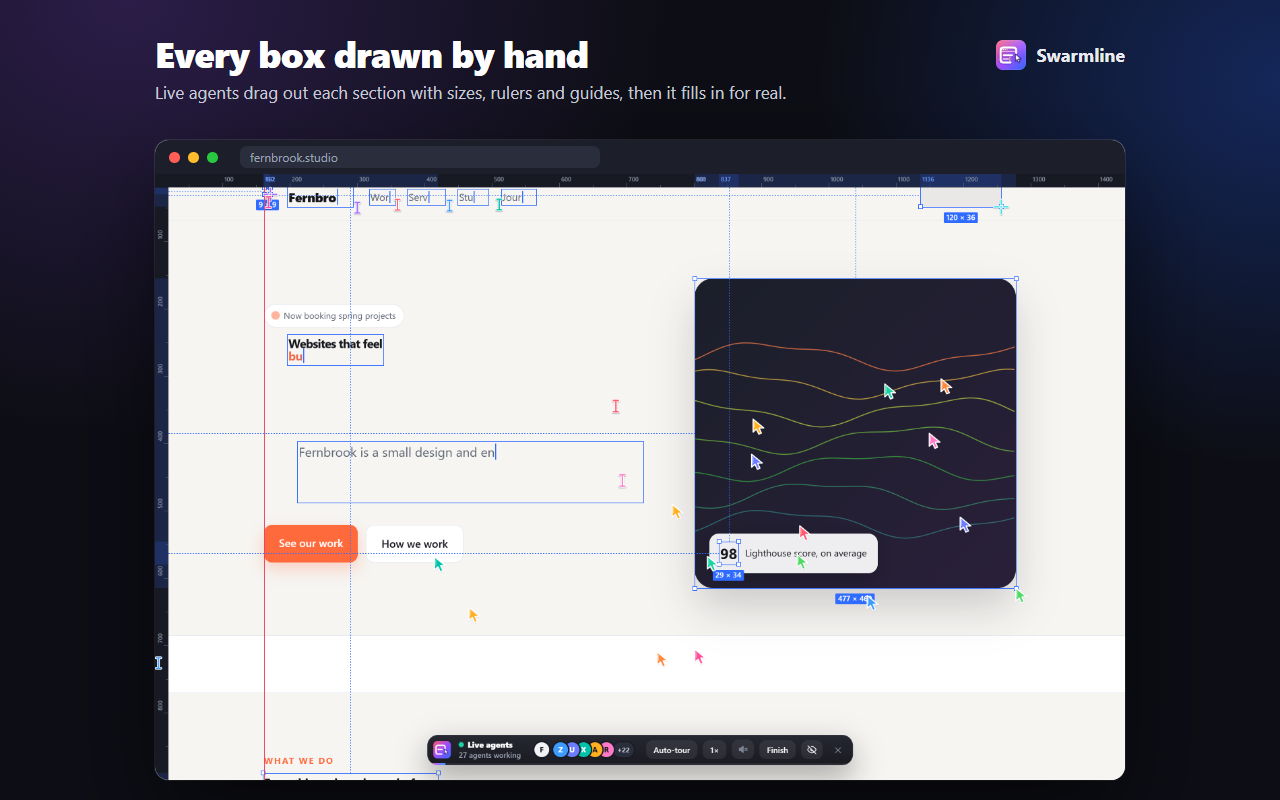
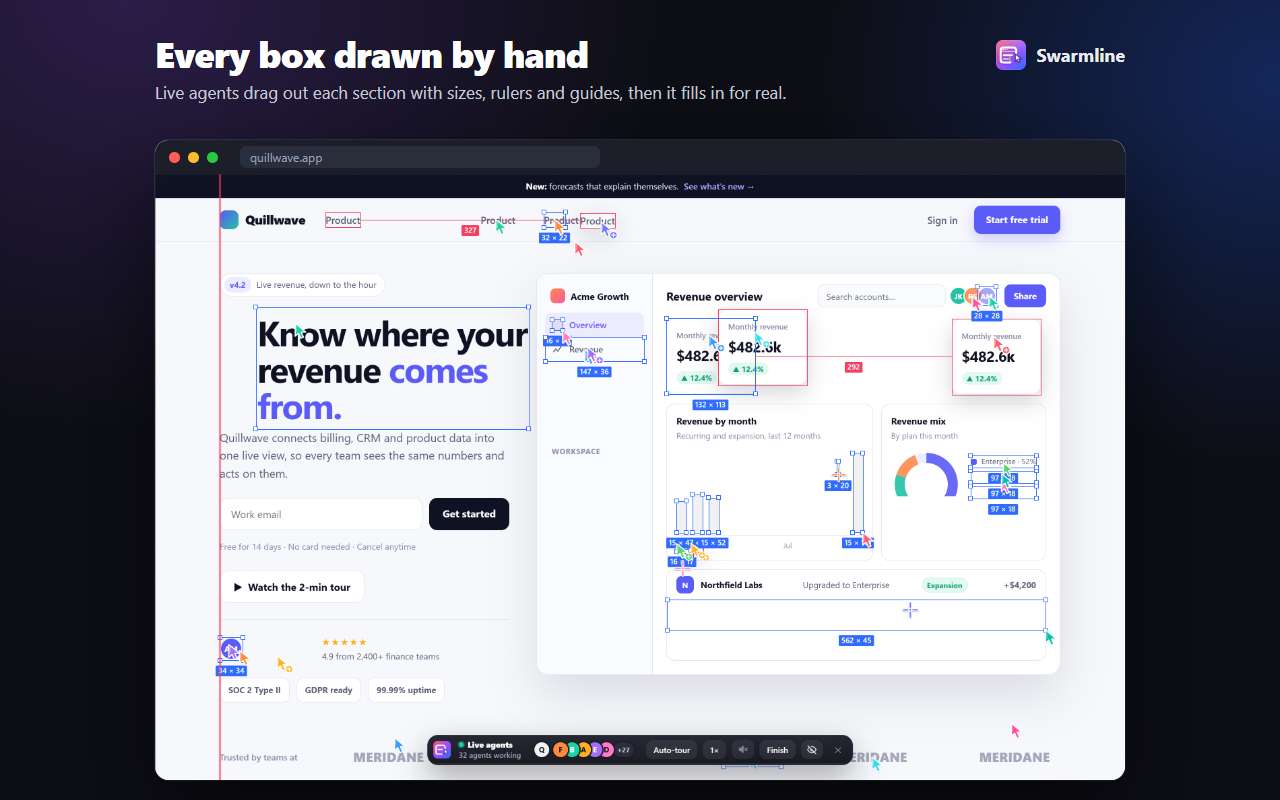
Store screenshots: a professional SaaS header with a live dashboard
New demo/showcase.html (Quillwave, a fictional revenue-analytics product): a
dense header with nav, hero, sign-up, ratings and badges beside a product
dashboard (sidebar, KPI cards, bar chart, donut, activity rows, logo strip),
so every shot shows many pieces being built. Duplicates and edits use the KPI
cards; the last shot is a real finished build (3x, with the tour), not Finish.

diff --git a/demo/showcase.html b/demo/showcase.html
@@ -1,0 +1,201 @@
+<!doctype html>
+<html lang="en">
+<head>
+<meta charset="utf-8">
+<meta name="viewport" content="width=device-width, initial-scale=1">
+<title>Quillwave · Revenue analytics</title>
+<!-- A self-contained page for Swarmline's store screenshots: a dense SaaS header with a
+     product dashboard. Quillwave and every company named here are fictional. No external requests. -->
+<style>
+  :root { --ink:#0f1222; --muted:#5b6178; --soft:#8a90a6; --line:#e6e8f0; --bg:#f7f8fc; --brand:#5b5bf7; --brand2:#22c3a6; --warm:#ff8a4c; --pink:#f45b9a; }
+  * { box-sizing: border-box; }
+  body { margin: 0; background: var(--bg); color: var(--ink); font: 15px/1.55 ui-sans-serif, system-ui, -apple-system, "Segoe UI", Roboto, sans-serif; }
+  a { color: inherit; text-decoration: none; }
+  .wrap { max-width: 1320px; margin: 0 auto; padding: 0 36px; }
+
+  /* top bar */
+  .promo { background: var(--ink); color: #d9dcf0; font-size: 13px; text-align: center; padding: 8px 0; }
+  .promo b { color: #fff; }
+  .promo a { color: #a9a9ff; margin-left: 8px; font-weight: 600; }
+  header { background: rgba(247,248,252,.9); border-bottom: 1px solid var(--line); }
+  header .wrap { display: flex; align-items: center; gap: 30px; height: 64px; }
+  .logo { display: flex; align-items: center; gap: 10px; font-weight: 800; font-size: 19px; letter-spacing: -.02em; }
+  .logo i { width: 28px; height: 28px; border-radius: 9px; background: linear-gradient(135deg, var(--brand), var(--brand2)); display: block; }
+  nav { display: flex; gap: 24px; color: var(--muted); font-size: 14.5px; font-weight: 500; }
+  .right { margin-left: auto; display: flex; align-items: center; gap: 12px; }
+  .signin { font-size: 14.5px; font-weight: 600; color: var(--muted); padding: 8px 12px; }
+  .cta { padding: 10px 18px; border-radius: 10px; background: var(--brand); color: #fff; font-weight: 650; font-size: 14px; box-shadow: 0 8px 20px rgba(91,91,247,.28); }
+
+  /* hero */
+  .hero { display: grid; grid-template-columns: 430px 1fr; gap: 40px; padding: 46px 0 40px; align-items: start; }
+  .pill { display: inline-flex; align-items: center; gap: 8px; padding: 5px 12px 5px 6px; border-radius: 999px; background: #fff; border: 1px solid var(--line); font-size: 13px; color: var(--muted); }
+  .pill span { padding: 2px 8px; border-radius: 999px; background: #ecebff; color: var(--brand); font-weight: 700; font-size: 12px; }
+  h1 { font-size: 52px; line-height: 1.04; letter-spacing: -.035em; margin: 18px 0 16px; }
+  h1 em { font-style: normal; color: var(--brand); }
+  .lede { font-size: 17px; color: var(--muted); margin: 0 0 24px; }
+  .signup { display: flex; gap: 10px; margin-bottom: 14px; }
+  .signup input { flex: 1; height: 48px; border-radius: 12px; border: 1px solid var(--line); background: #fff; padding: 0 16px; font: inherit; color: var(--ink); }
+  .btn { display: inline-flex; align-items: center; height: 48px; padding: 0 20px; border-radius: 12px; font-weight: 650; }
+  .btn.pri { background: var(--ink); color: #fff; }
+  .btn.sec { background: #fff; border: 1px solid var(--line); }
+  .fine { font-size: 13px; color: var(--soft); margin: 0 0 26px; }
+  .trust { display: flex; align-items: center; gap: 14px; padding-top: 22px; border-top: 1px solid var(--line); }
+  .faces { display: flex; }
+  .faces b { width: 34px; height: 34px; border-radius: 50%; border: 2px solid var(--bg); margin-left: -8px; display: grid; place-items: center; color: #fff; font-size: 12px; }
+  .faces b:first-child { margin-left: 0; }
+  .stars { color: #ffb020; letter-spacing: 2px; font-size: 14px; }
+  .trust small { display: block; color: var(--muted); font-size: 13px; }
+  .badges { display: flex; gap: 10px; margin-top: 22px; }
+  .badge { padding: 8px 12px; border-radius: 10px; background: #fff; border: 1px solid var(--line); font-size: 12.5px; font-weight: 650; color: var(--muted); }
+
+  /* product dashboard */
+  .app { background: #fff; border: 1px solid var(--line); border-radius: 18px; box-shadow: 0 30px 70px rgba(15,18,34,.12); display: grid; grid-template-columns: 172px 1fr; overflow: hidden; }
+  .side { background: #fafbff; border-right: 1px solid var(--line); padding: 16px 12px; }
+  .ws { display: flex; align-items: center; gap: 8px; padding: 6px 8px 14px; font-weight: 700; font-size: 13.5px; }
+  .ws i { width: 22px; height: 22px; border-radius: 7px; background: linear-gradient(135deg, var(--warm), var(--pink)); display: block; }
+  .item { display: flex; align-items: center; gap: 10px; padding: 8px 10px; border-radius: 9px; color: var(--muted); font-size: 13px; font-weight: 550; }
+  .item svg { width: 16px; height: 16px; flex: none; }
+  .item.on { background: #ecebff; color: var(--brand); }
+  .side h6 { margin: 16px 10px 6px; font-size: 11px; letter-spacing: .06em; text-transform: uppercase; color: var(--soft); }
+  .main { padding: 16px 20px 20px; }
+  .top { display: flex; align-items: center; gap: 12px; margin-bottom: 16px; }
+  .top h3 { margin: 0; font-size: 17px; letter-spacing: -.01em; white-space: nowrap; }
+  .search { margin-left: auto; width: 190px; height: 34px; border-radius: 9px; border: 1px solid var(--line); background: #fafbff; padding: 0 12px; font: inherit; font-size: 13px; }
+  .team { display: flex; }
+  .team b { width: 28px; height: 28px; border-radius: 50%; border: 2px solid #fff; margin-left: -7px; display: grid; place-items: center; color: #fff; font-size: 11px; }
+  .share { height: 34px; padding: 0 14px; border-radius: 9px; background: var(--brand); color: #fff; font-weight: 650; font-size: 13px; display: inline-flex; align-items: center; }
+  .kpis { display: grid; grid-template-columns: repeat(4, 1fr); gap: 12px; margin-bottom: 14px; }
+  .kpi { border: 1px solid var(--line); border-radius: 13px; padding: 12px 14px; background: #fff; }
+  .kpi small { color: var(--soft); font-size: 11.5px; font-weight: 600; white-space: nowrap; }
+  .kpi strong { display: block; font-size: 22px; letter-spacing: -.02em; margin: 2px 0 4px; }
+  .delta { font-size: 11.5px; font-weight: 700; padding: 2px 7px; border-radius: 999px; }
+  .up { color: #0f9f7a; background: #e2f8f1; }
+  .down { color: #d6456f; background: #fde8ef; }
+  .panels { display: grid; grid-template-columns: 1.55fr 1fr; gap: 12px; }
+  .panel { border: 1px solid var(--line); border-radius: 13px; padding: 14px; background: #fff; }
+  .panel h4 { margin: 0 0 2px; font-size: 13.5px; }
+  .panel p { margin: 0 0 12px; color: var(--soft); font-size: 12px; }
+  .bars { display: flex; align-items: flex-end; gap: 9px; height: 128px; padding-bottom: 4px; border-bottom: 1px solid var(--line); }
+  .bars span { flex: 1; border-radius: 6px 6px 2px 2px; background: #dcdcff; }
+  .bars span.hi { background: var(--brand); }
+  .axis { display: flex; justify-content: space-between; color: var(--soft); font-size: 11px; margin-top: 6px; }
+  .donut { display: flex; align-items: center; gap: 14px; }
+  .donut svg { width: 104px; height: 104px; flex: none; }
+  .legend div { display: flex; align-items: center; gap: 7px; font-size: 11.5px; white-space: nowrap; color: var(--muted); margin: 5px 0; }
+  .legend i { width: 9px; height: 9px; border-radius: 3px; display: block; }
+  .rows { margin-top: 12px; border: 1px solid var(--line); border-radius: 13px; overflow: hidden; }
+  .row { display: grid; grid-template-columns: 26px 1.15fr 1.35fr 84px 76px; align-items: center; gap: 10px; padding: 9px 14px; border-top: 1px solid var(--line); font-size: 12.5px; background: #fff; }
+  .row:first-child { border-top: 0; }
+  .row b { width: 26px; height: 26px; border-radius: 8px; display: grid; place-items: center; color: #fff; font-size: 11px; }
+  .row .tag { font-style: normal; justify-self: start; font-size: 11px; font-weight: 700; padding: 3px 8px; border-radius: 999px; }
+  .row .amt { text-align: right; font-weight: 700; }
+  .row span { color: var(--muted); white-space: nowrap; }
+
+  /* logo strip */
+  .logos { display: flex; justify-content: space-between; align-items: center; padding: 26px 0 30px; color: #a3a8bb; font-weight: 800; font-size: 19px; letter-spacing: .01em; }
+  .logos small { color: var(--soft); font-weight: 600; font-size: 13px; letter-spacing: 0; }
+
+  /* below the fold */
+  section { padding: 70px 0; }
+  .kicker { color: var(--brand); font-weight: 700; font-size: 13px; letter-spacing: .08em; text-transform: uppercase; }
+  h2 { font-size: 38px; letter-spacing: -.03em; margin: 10px 0 34px; max-width: 680px; line-height: 1.1; }
+  .grid3 { display: grid; grid-template-columns: repeat(3, 1fr); gap: 20px; }
+  .card { background: #fff; border: 1px solid var(--line); border-radius: 18px; padding: 24px; }
+  .card .ic { width: 42px; height: 42px; border-radius: 12px; display: grid; place-items: center; margin-bottom: 16px; }
+  .card h3 { margin: 0 0 8px; font-size: 18px; }
+  .card p { margin: 0; color: var(--muted); }
+  footer { border-top: 1px solid var(--line); padding: 34px 0 60px; color: var(--soft); font-size: 13px; }
+</style>
+</head>
+<body>
+<div class="promo"><b>New:</b> forecasts that explain themselves.<a href="#">See what's new →</a></div>
+<header>
+  <div class="wrap">
+    <a class="logo" href="#"><i></i>Quillwave</a>
+    <nav><a href="#">Product</a><a href="#">Solutions</a><a href="#">Pricing</a><a href="#">Customers</a><a href="#">Docs</a><a href="#">Changelog</a></nav>
+    <div class="right"><a class="signin" href="#">Sign in</a><a class="cta" href="#">Start free trial</a></div>
+  </div>
+</header>
+
+<main class="wrap">
+  <div class="hero">
+    <div>
+      <div class="pill"><span>v4.2</span> Live revenue, down to the hour</div>
+      <h1>Know where your revenue <em>comes from.</em></h1>
+      <p class="lede">Quillwave connects billing, CRM and product data into one live view, so every team sees the same numbers and acts on them.</p>
+      <div class="signup"><input type="email" placeholder="Work email" aria-label="Work email"><a class="btn pri" href="#">Get started</a></div>
+      <p class="fine">Free for 14 days · No card needed · Cancel anytime</p>
+      <div class="btns"><a class="btn sec" href="#">▶&nbsp; Watch the 2-min tour</a></div>
+      <div class="trust" style="margin-top:24px">
+        <div class="faces"><b style="background:#5b5bf7">AM</b><b style="background:#22c3a6">JK</b><b style="background:#ff8a4c">RS</b><b style="background:#f45b9a">TL</b><b style="background:#0f1222">+9</b></div>
+        <div><div class="stars">★★★★★</div><small>4.9 from 2,400+ finance teams</small></div>
+      </div>
+      <div class="badges"><div class="badge">SOC 2 Type II</div><div class="badge">GDPR ready</div><div class="badge">99.99% uptime</div></div>
+    </div>
+
+    <div class="app">
+      <aside class="side">
+        <div class="ws"><i></i>Acme Growth</div>
+        <a class="item on" href="#"><svg viewBox="0 0 16 16" fill="none" stroke="currentColor" stroke-width="1.6"><rect x="2" y="2" width="5" height="5" rx="1.5"/><rect x="9" y="2" width="5" height="5" rx="1.5"/><rect x="2" y="9" width="5" height="5" rx="1.5"/><rect x="9" y="9" width="5" height="5" rx="1.5"/></svg>Overview</a>
+        <a class="item" href="#"><svg viewBox="0 0 16 16" fill="none" stroke="currentColor" stroke-width="1.6"><path d="M2 13l4-5 3 3 5-7"/></svg>Revenue</a>
+        <a class="item" href="#"><svg viewBox="0 0 16 16" fill="none" stroke="currentColor" stroke-width="1.6"><circle cx="8" cy="5.5" r="2.8"/><path d="M2.5 14c1-3 3-4 5.5-4s4.5 1 5.5 4"/></svg>Customers</a>
+        <a class="item" href="#"><svg viewBox="0 0 16 16" fill="none" stroke="currentColor" stroke-width="1.6"><path d="M3 2.5h10v11H3z"/><path d="M5.5 6h5M5.5 9h5"/></svg>Invoices</a>
+        <a class="item" href="#"><svg viewBox="0 0 16 16" fill="none" stroke="currentColor" stroke-width="1.6"><circle cx="8" cy="8" r="5.5"/><path d="M8 4.5V8l2.5 1.5"/></svg>Forecasts</a>
+        <h6>Workspace</h6>
+        <a class="item" href="#"><svg viewBox="0 0 16 16" fill="none" stroke="currentColor" stroke-width="1.6"><path d="M2.5 4h11M2.5 8h11M2.5 12h7"/></svg>Reports</a>
+        <a class="item" href="#"><svg viewBox="0 0 16 16" fill="none" stroke="currentColor" stroke-width="1.6"><path d="M8 2v3M8 11v3M2 8h3M11 8h3"/><circle cx="8" cy="8" r="2.5"/></svg>Integrations</a>
+        <a class="item" href="#"><svg viewBox="0 0 16 16" fill="none" stroke="currentColor" stroke-width="1.6"><circle cx="8" cy="8" r="2"/><path d="M8 1.5v2M8 12.5v2M1.5 8h2M12.5 8h2M3.4 3.4l1.4 1.4M11.2 11.2l1.4 1.4M3.4 12.6l1.4-1.4M11.2 4.8l1.4-1.4"/></svg>Settings</a>
+      </aside>
+      <div class="main">
+        <div class="top">
+          <h3>Revenue overview</h3>
+          <input class="search" type="search" placeholder="Search accounts…" aria-label="Search">
+          <div class="team"><b style="background:#22c3a6">JK</b><b style="background:#ff8a4c">RS</b><b style="background:#5b5bf7">AM</b></div>
+          <a class="share" href="#">Share</a>
+        </div>
+        <div class="kpis">
+          <div class="kpi"><small>Monthly revenue</small><strong>$482.6k</strong><span class="delta up">▲ 12.4%</span></div>
+          <div class="kpi"><small>Active customers</small><strong>8,214</strong><span class="delta up">▲ 6.1%</span></div>
+          <div class="kpi"><small>Net retention</small><strong>118%</strong><span class="delta up">▲ 2.3%</span></div>
+          <div class="kpi"><small>Churn rate</small><strong>1.9%</strong><span class="delta down">▼ 0.4%</span></div>
+        </div>
+        <div class="panels">
+          <div class="panel">
+            <h4>Revenue by month</h4><p>Recurring and expansion, last 12 months</p>
+            <div class="bars"><span style="height:38%"></span><span style="height:46%"></span><span style="height:42%"></span><span style="height:55%"></span><span style="height:51%"></span><span style="height:63%"></span><span style="height:60%"></span><span style="height:71%"></span><span style="height:68%"></span><span style="height:80%"></span><span style="height:86%"></span><span class="hi" style="height:96%"></span></div>
+            <div class="axis"><span>Jan</span><span>Mar</span><span>May</span><span>Jul</span><span>Sep</span><span>Dec</span></div>
+          </div>
+          <div class="panel">
+            <h4>Revenue mix</h4><p>By plan this month</p>
+            <div class="donut">
+              <svg viewBox="0 0 42 42"><circle cx="21" cy="21" r="15.9" fill="none" stroke="#ecebff" stroke-width="6"/><circle cx="21" cy="21" r="15.9" fill="none" stroke="#5b5bf7" stroke-width="6" stroke-dasharray="52 48" stroke-dashoffset="25"/><circle cx="21" cy="21" r="15.9" fill="none" stroke="#22c3a6" stroke-width="6" stroke-dasharray="28 72" stroke-dashoffset="73"/><circle cx="21" cy="21" r="15.9" fill="none" stroke="#ff8a4c" stroke-width="6" stroke-dasharray="14 86" stroke-dashoffset="45"/></svg>
+              <div class="legend"><div><i style="background:#5b5bf7"></i>Enterprise · 52%</div><div><i style="background:#22c3a6"></i>Growth · 28%</div><div><i style="background:#ff8a4c"></i>Starter · 14%</div><div><i style="background:#ecebff"></i>Other · 6%</div></div>
+            </div>
+          </div>
+        </div>
+        <div class="rows">
+          <div class="row"><b style="background:#5b5bf7">N</b><strong>Northfield Labs</strong><span>Upgraded to Enterprise</span><em class="tag up">Expansion</em><span class="amt">+$4,200</span></div>
+          <div class="row"><b style="background:#22c3a6">O</b><strong>Orchard &amp; Pine</strong><span>Annual plan renewed</span><em class="tag up">Renewal</em><span class="amt">+$18,900</span></div>
+          <div class="row"><b style="background:#ff8a4c">B</b><strong>Bluegate Freight</strong><span>Added 40 seats</span><em class="tag up">Expansion</em><span class="amt">+$2,640</span></div>
+        </div>
+      </div>
+    </div>
+  </div>
+
+  <div class="logos"><small>Trusted by teams at</small><span>MERIDANE</span><span>Quillbrook</span><span>HALVARA</span><span>tesselate</span><span>BRIGHTVANE</span><span>Kestrelwood</span></div>
+</main>
+
+<section>
+  <div class="wrap">
+    <div class="kicker">Why Quillwave</div>
+    <h2>One source of truth for every revenue number.</h2>
+    <div class="grid3">
+      <div class="card"><div class="ic" style="background:#ecebff;color:#5b5bf7">◆</div><h3>Live from billing</h3><p>Stripe-style events, invoices and refunds land in seconds, not at month end.</p></div>
+      <div class="card"><div class="ic" style="background:#e2f8f1;color:#0f9f7a">●</div><h3>Forecasts you can trust</h3><p>Every projection shows the deals and trends behind it, line by line.</p></div>
+      <div class="card"><div class="ic" style="background:#fff0e6;color:#ff8a4c">▲</div><h3>Alerts that matter</h3><p>Get told when churn risk rises or an account is ready to expand.</p></div>
+    </div>
+  </div>
+</section>
+<footer><div class="wrap">© 2026 Quillwave (a fictional company for this demo page).</div></footer>
+</body>
+</html>

diff --git a/site/index.html b/site/index.html
@@ -50,7 +50,7 @@
   <section><div class="wrap">
     <div class="kicker">In action</div>
     <h2>From blank canvas to live page.</h2>
-    <p class="sub">Real moments of Swarmline building a demo page for a fictional studio.</p>
+    <p class="sub">Real moments of Swarmline building a demo page for Quillwave, a fictional product.</p>
     <div class="gallery">
       <img src="assets/screenshot-1.png" alt="Every box drawn by hand: cursors dragging out the hero with rulers and size badges">
       <img src="assets/screenshot-2.png" alt="Build one, duplicate the rest: service cards Alt-dragged as copies">

diff --git a/README.md b/README.md
@@ -54,7 +54,7 @@ The cursors, selections, rulers and guides are drawn on a transparent `<canvas>`
 | `extension/` | The extension: `manifest.json` (MV3, `activeTab` + `scripting` only), `background.js`, `swarmline.js`, `icons/` |
 | `site/` | The public website: homepage, privacy policy, support (deployed to GitHub Pages) |
 | `store/` | Store listing copy ([`LISTING.md`](store/LISTING.md)), icon, screenshots, promo tiles |
-| `demo/index.html` | Self-contained demo page (a fictional studio) used for testing and store screenshots |
+| `demo/index.html`, `demo/showcase.html` | Self-contained demo pages: a fictional studio (used by the tests) and a fictional SaaS product, Quillwave (used for the store screenshots) |
 | `scripts/` | `make-assets.mjs` (icon, captioned store screenshots, promo tiles), `package.mjs` (store zip), `preflight.mjs` (pre-submission checks), `build-site.mjs` (the website), `configure.mjs` (support email and store link) |
 | `tests/` | `smoke.mjs` (runs it on a page with Auto-tour; frames, timings, frame rate) and `extension.mjs` (the real extension) |
 | `PUBLISHING.md` | Step-by-step: from this folder to a live Web Store listing |

diff --git a/PUBLISHING.md b/PUBLISHING.md
@@ -17,7 +17,7 @@ All paths are inside `H:\swarm design\swarmline`.
 | Website (home, privacy, support) | `site\` (built copy in `dist\site\`) | Published to GitHub Pages automatically when you push |
 | Privacy policy | `PRIVACY.md`, and the web page `site\privacy.html` | The store's privacy policy URL points at the web page |
 | Extension source | `extension\` (`manifest.json`, `background.js`, `swarmline.js`, `icons\`) | What's inside the zip |
-| Demo page for screenshots | `demo\index.html` | A fictional studio site the screenshots are taken from |
+| Demo pages | `demo\showcase.html` (screenshots), `demo\index.html` (tests) | Quillwave, a fictional SaaS product the screenshots are taken from, and a fictional studio site the tests run on |
 | Build and check scripts | `scripts\` | `assets`, `package`, `site`, `configure`, `preflight` |
 | Tests | `tests\` | `npm test`, `npm run test:ext` |
 | Credits and licence | `NOTICE.md`, `LICENSE` | Credits Swarm Rebuild (Dhvanil Patel) and Swarm (Joel Califa) |

diff --git a/store/LISTING.md b/store/LISTING.md
@@ -71,7 +71,7 @@ Inspired by Swarm by Joel Califa and Swarm Rebuild by Dhvanil Patel.
 | Marquee promo tile | `marquee-1400x560.png` | 1400×560 |
 | Promo video | optional: a YouTube link to a screen recording of Swarmline on your own site | |
 
-Upload the screenshots in that order. Each is a real moment of Swarmline building `demo/index.html` (a page for a fictional studio, so no real company's site or branding appears), captured the instant it happens and framed with a caption. Regenerate everything with `npm run assets`.
+Upload the screenshots in that order. Each is a real moment of Swarmline building `demo/showcase.html` (Quillwave, a fictional SaaS product, so no real company's site or branding appears), captured the instant it happens and framed with a caption. Regenerate everything with `npm run assets`.
 
 ### Additional fields
 
